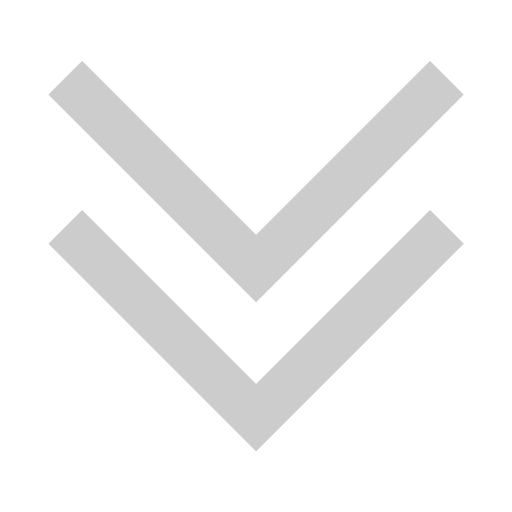
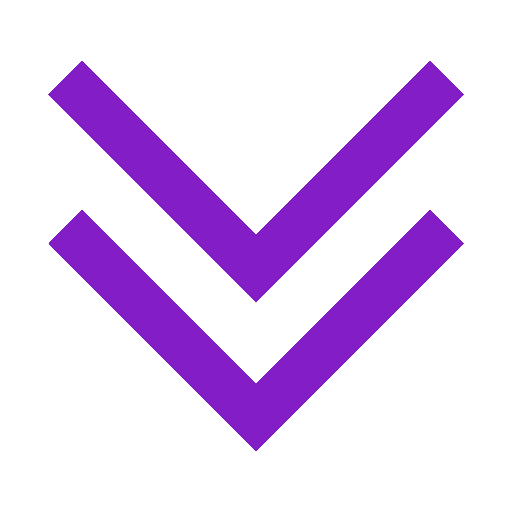
change colour and position of arrows

Changed region(s): [[0.0938, 0.4062, 0.9062, 0.875], [0.0938, 0.125, 0.9062, 0.5938]]

diff --git a/src/routes/+page.svelte b/src/routes/+page.svelte
@@ -114,9 +114,8 @@
             </div>
         </nav>
 
-        <div id="MainPage"class="h-screen flex items-center z-0">
-            <div class=""></div>
-            <div class="w-max" style=" text-align: left;">
+        <div id="MainPage"class="h-screen flex items-center z-0 relative">
+            <div style="text-align: left;">
                 <h3 class=" p-4 text-center animate-typing overflow-hidden whitespace-nowrap 
                     hover:scale-110 transition duration-500
                     border-r-4 border-r-white pr-5 text-7xl text-white font-mono">
@@ -128,13 +127,13 @@
                 </h2>
             </div>
             <a href="#AboutMe">
-                <img src={downArrow} alt="down-arrow" class="absolute bottom-0 right-0 animate-bounce" width="50">
+                <img src={downArrow} alt="down-arrow" class="animate-bounce" style="position: absolute; right: 0%; bottom: 20%;" width="50">
             </a>
         </div>
 
-        <div id="AboutMe"class="h-screen z-0 flex justify-center items-center">
+        <div id="AboutMe"class="h-screen z-0 flex justify-center items-center relative">
             <a href="#MainPage">
-                <img src={upArrow} alt="up-arrow" class="absolute top-14 right-0 animate-bounce" width="50">
+                <img src={upArrow} alt="up-arrow" class="animate-bounce" style="position: absolute; right: 0%; top: 20%;" width="50">
             </a>
 
             <div class="flex flex-row space-x-8 columns-2">
@@ -191,33 +190,39 @@
             </div>
 
             <a href="#Academics">
-                <img src={downArrow} alt="down-arrow" class="absolute bottom-0 right-0 animate-bounce" width="50">
+                <img src={downArrow} alt="down-arrow" class="animate-bounce" style="position: absolute; right: 0%; bottom: 20%;" width="50">
             </a>
 
         </div>
     
-        <div id="Academics"class="h-screen z-0 flex justify-center items-center">
+        <div id="Academics"class="h-screen z-0 flex justify-center items-center relative">
+            <a href="#AboutMe">
+                <img src={upArrow} alt="up-arrow" class="animate-bounce" style="position: absolute; right: 0%; top: 20%;" width="50">
+            </a>
             <div class="flex flex-col hover:scale-105 scrollable animate-fade-in">
                 <p class="p-4 text-center text-white text-3xl font-mono">
                     Academics
                 </p>
-                <!-- <p class="p-2 text-base text-white font-mono">
+                <p class="p-2 text-base text-white font-mono">
                     "Lorem ipsum dolor sit amet, consectetur adipiscing elit, sed do eiusmod tempor incididunt ut labore et dolore magna aliqua. Ut enim ad minim veniam, quis nostrud exercitation ullamco laboris nisi ut aliquip ex ea commodo consequat. Duis aute irure dolor in reprehenderit in voluptate velit esse cillum dolore eu fugiat nulla pariatur. Excepteur sint occaecat cupidatat non proident, sunt in culpa qui officia deserunt mollit anim id est laborum."
-                </p> -->
+                </p>
             </div>
             <a href="#Projects">
-                <img src={downArrow} alt="down-arrow" class="absolute bottom-0 right-0 animate-bounce" width="50">
+                <img src={downArrow} alt="down-arrow" class="animate-bounce" style="position: absolute; right: 0%; bottom: 20%;" width="50">
             </a>            
         </div>
     
-        <div id="Projects"class="h-screen z-0 flex justify-center items-center">
+        <div id="Projects"class="h-screen z-0 flex justify-center items-center relative">
+            <a href="#Academics">
+                <img src={upArrow} alt="up-arrow" class="animate-bounce" style="position: absolute; right: 0%; top: 20%;" width="50">
+            </a>
             <div>
                 <p class="p-4 text-center text-white text-3xl font-mono">
                     Projects
                 </p>
-                <!-- <p class="p-2 text-base text-white font-mono">
+                <p class="p-2 text-base text-white font-mono">
                     "Lorem ipsum dolor sit amet, consectetur adipiscing elit, sed do eiusmod tempor incididunt ut labore et dolore magna aliqua. Ut enim ad minim veniam, quis nostrud exercitation ullamco laboris nisi ut aliquip ex ea commodo consequat. Duis aute irure dolor in reprehenderit in voluptate velit esse cillum dolore eu fugiat nulla pariatur. Excepteur sint occaecat cupidatat non proident, sunt in culpa qui officia deserunt mollit anim id est laborum."
-                </p> -->
+                </p>
             </div>
         </div>
 
